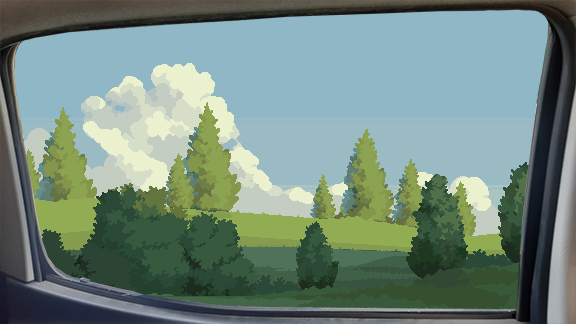
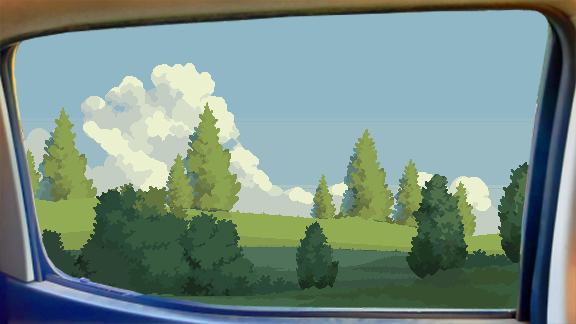
Creating menu interations Creating ABC class Creating Factory Level 1 Bg implementation: parallax

Changed region(s): [[0.0, 0.0, 1.0, 1.0]]

diff --git a/code/menu.py b/code/menu.py
@@ -4,7 +4,7 @@ import pygame.image
 from pygame import Surface, Rect
 from pygame.font import Font
 
-from code.Const import WIN_WIDTH, COLOR_ORANGE, MENU_OPTION, COLOR_WHITE
+from code.Const import WIN_WIDTH, COLOR_ORANGE, MENU_OPTION, COLOR_WHITE, COLOR_PURPLE, COLOR_BLACK
 
 
 class Menu:
@@ -14,23 +14,47 @@ class Menu:
         self.rect = self.surf.get_rect(left=0, top=0)
 
     def run(self, ):
+        menu_option = 0
         pygame.mixer_music.load('./asset/MenuSong.mp3')
         pygame.mixer_music.play(-1)
         while True:
             self.window.blit(source=self.surf, dest=self.rect)
-            self.menu_text(50, "RUN", COLOR_ORANGE, ((WIN_WIDTH / 2), 70))
-            self.menu_text(50, "HANDMAN!", COLOR_ORANGE, ((WIN_WIDTH / 2), 120))
+            self.menu_text(60, "RUN", COLOR_ORANGE, ((WIN_WIDTH / 2), 80))
+            self.menu_text(60, "HANDMAN!", COLOR_ORANGE, ((WIN_WIDTH / 2), 140))
+            self.menu_text(11, "You are a bored kid in the", COLOR_BLACK, (95, 43))
+            self.menu_text(11, "backseat in a travel, when", COLOR_BLACK, (95, 56))
+            self.menu_text(11, "you have the brilliant idea.", COLOR_BLACK, (95, 69))
+            self.menu_text(10, "Created by: André Luís Serpa dos Santos ", COLOR_BLACK, (450, 43))
+            self.menu_text(10, "A.K.A: Dezinho Maluco.", COLOR_BLACK, (450, 56))
 
             for i in range(len(MENU_OPTION)):
-                self.menu_text(20, MENU_OPTION[i], COLOR_WHITE, ((WIN_WIDTH / 2), 200 + 30 * i))
-
-            pygame.display.flip()
+                if i == menu_option:
+                    self.menu_text(20, MENU_OPTION[i], COLOR_PURPLE, ((WIN_WIDTH / 2), 200 + 30 * i))
+                else:
+                    self.menu_text(20, MENU_OPTION[i], COLOR_WHITE, ((WIN_WIDTH / 2), 200 + 30 * i))
 
             # Check for all events
             for event in pygame.event.get():
                 if event.type == pygame.QUIT:
                     pygame.quit()  # Close Window
                     quit()  # end pygame
+                if event.type == pygame.KEYDOWN:
+                    if event.key == pygame.K_DOWN:
+                        if menu_option < len(MENU_OPTION) - 1:
+                            menu_option += 1
+                        else:
+                            menu_option = 0
+
+                    if event.key == pygame.K_UP:
+                        if menu_option > 0:
+                            menu_option -= 1
+                        else:
+                            menu_option = len(MENU_OPTION) - 1
+
+                    if event.key == pygame.K_RETURN:  # Enter
+                        return MENU_OPTION[menu_option]
+
+            pygame.display.flip()
 
     def menu_text(self, text_size: int, text: str, text_color: tuple, text_center_pos: tuple):
         text_font: Font = pygame.font.SysFont(name="Comic Sans MS", size=text_size)

diff --git a/code/level.py b/code/level.py
@@ -1,11 +1,23 @@
 #!/usr/bin/python
 # -*- coding: utf-8 -*-
+import pygame
+
+from code.entity import Entity
+from code.entityFactory import EntityFactory
+
 
 class Level:
-    def __init__(self):
-        self.window = None
-        self.name = None
-        self.entity_list = None
+    def __init__(self, window, name, game_mode):
+        self.window = window
+        self.name = name
+        self.game_mode = game_mode
+        self.entity_list: list[Entity] = []
+        self.entity_list.extend(EntityFactory.get_entity('Level1Bg'))
 
-    def run(self, ):
+    def run(self):
+        while True:
+            for ent in self.entity_list:
+                self.window.blit(source=ent.surf, dest=ent.rect)
+                ent.move()
+            pygame.display.flip()
         pass

diff --git a/code/game.py b/code/game.py
@@ -2,7 +2,8 @@
 # -*- coding: utf-8 -*-
 import pygame
 
-from code.Const import WIN_WIDTH, WIN_HEIGHT
+from code.Const import WIN_WIDTH, WIN_HEIGHT, MENU_OPTION
+from code.level import Level
 from code.menu import Menu
 
 
@@ -14,5 +15,13 @@ class Game:
     def run(self):
         while True:
             menu = Menu(self.window)
-            menu.run()
-            pass
+            menu_return = menu.run()
+
+            if menu_return in [MENU_OPTION[0], MENU_OPTION[1]]:
+                level = Level(self.window, 'Level1', menu_return)
+                level_return = level.run()
+            elif menu_return == MENU_OPTION[3]:
+                pygame.quit()
+                quit()
+            else:
+                pass

diff --git a/code/entityFactory.py b/code/entityFactory.py
@@ -1,9 +1,17 @@
 #!/usr/bin/python
 # -*- coding: utf-8 -*-
+from code.Const import WIN_WIDTH
+from code.background import Background
+
 
 class EntityFactory:
-    def __init__(self):
-        pass
 
-    def get_entity(self, entity_type):
-        pass
+    @staticmethod
+    def get_entity(entity_name: str, position=(0, 0)):
+        match entity_name:
+            case 'Level1Bg':
+                list_bg = []
+                for i in range(6):
+                    list_bg.append(Background(f'Level1Bg{i}', (0, 0)))
+                    list_bg.append(Background(f'Level1Bg{i}', (WIN_WIDTH, 0)))
+                return list_bg

diff --git a/code/entity.py b/code/entity.py
@@ -1,11 +1,18 @@
 #!/usr/bin/python
 # -*- coding: utf-8 -*-
+from abc import ABC, abstractmethod
 
-class Entity:
-    def __init__(self):
-        self.name = None
-        self.surf = None
-        self.rect = None
+import pygame.image
 
+
+class Entity(ABC):
+    def __init__(self, name: str, position: tuple):
+        self.name = name
+        self.surf = pygame.image.load('./asset/' + name + '.png')
+        self.rect = self.surf.get_rect(left=position[0], top=position[1])
+        self.speed = 0
+
+    @abstractmethod
     def move(self, ):
         pass
+

diff --git a/code/background.py b/code/background.py
@@ -1,9 +1,14 @@
 #!/usr/bin/python
 # -*- coding: utf-8 -*-
+from code.Const import WIN_WIDTH, ENTITY_SPEED
+from code.entity import Entity
 
-class Background:
-    def __init__(self):
-        pass
+
+class Background(Entity):
+    def __init__(self, name: str, position: tuple):
+        super().__init__(name, position)
 
     def move(self, ):
-        pass
+        self.rect.centerx -= ENTITY_SPEED[self.name]
+        if self.rect.right <= 0:
+            self.rect.left = WIN_WIDTH

diff --git a/code/Const.py b/code/Const.py
@@ -1,11 +1,22 @@
 # C
+COLOR_BLACK = (0, 0, 0)
+COLOR_PURPLE = (240, 0, 255)
 COLOR_ORANGE = (255, 128, 0)
 COLOR_WHITE = (255, 255, 255)
 
+# E
+ENTITY_SPEED = {
+    'Level1Bg0': 0,
+    'Level1Bg1': 1,
+    'Level1Bg2': 2,
+    'Level1Bg3': 4,
+    'Level1Bg4': 6,
+    'Level1Bg5': 0,
+}
 # M
 MENU_OPTION = ('PLAY',
                'MODE: RIGHT-HANDED',
-               'SOCRE',
+               'SCORE',
                'EXIT')
 
 # W
